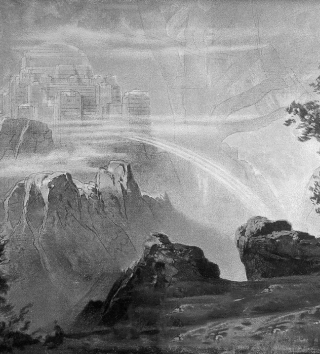
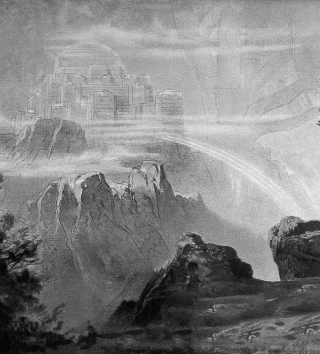
finishing touches on landing page

diff --git a/src/pages/LandingPage.js b/src/pages/LandingPage.js
@@ -8,6 +8,7 @@ import etsyLogo from "../assets/etsy.png"
 import landingImages from "../assets/landingImages.js"
 import search from "../assets/search.png"
 import rightArrow from "../assets/right-arrow.png"
+import rightArrow2 from "../assets/right-arrow-2.png"
 import testimonialOne from "../assets/testimonial-1.jpg"
 
 const LandingPage = (props) => {
@@ -182,7 +183,7 @@ const LandingPage = (props) => {
                 <Link to="/">
                     <div className="link-cont">
                         <h5>Explore gifts</h5>
-                        <img src={rightArrow} alt="right arrow indicating a link to another page" /> 
+                        <img src={rightArrow2} alt="right arrow indicating a link to another page" /> 
                     </div>
                 </Link>
             </div>
@@ -191,9 +192,11 @@ const LandingPage = (props) => {
                     <img src={testimonialOne} alt="generic product" />
                 </div>
                 <div className="testimonial-cont">
-                    <h6>I thought Mother’s Day was next weekend! Thank Odin I found Gifthalla. Mom loves the lavender candle and Poo-Pourri.</h6>
-                    <h6 className="bold">Sam Nusbaum</h6>
-                    <h6>Real Gifthalla User</h6>
+                    <p>I thought Mother’s Day was next weekend! Thank Odin I found Gifthalla. Mom loves the lavender candle and Poo-Pourri.</p>
+                    <div className="testimonial-author">
+                        <p className="bold">Sam Nusbaum</p>
+                        <p>Real Gifthalla User</p>
+                    </div>
                 </div>
             </div>
             <div className="footer-image">

diff --git a/src/App.css b/src/App.css
@@ -169,6 +169,7 @@ div.landing-cont div.subtext-marketplace-cont div.markets-cont {
   display: flex;
   justify-content: space-between;
   align-items: center;
+  mix-blend-mode: luminosity;
 }
 
 div.landing-cont div.search-cont {
@@ -324,11 +325,20 @@ div.landing-cont div.inspiration-banner.third {
   flex-direction: row;
   align-items: center;
   justify-content: center;
-  grid-gap: 0;
+  grid-gap: 16px;
+  height: 270px;
 }
 
 div.landing-cont div.inspiration-banner.third div {
   max-width: 50%;
+  width: 100%;
+}
+
+div.landing-cont div.inspiration-banner.third p {
+  font-size: 12px;
+  line-height: 17.6px;
+  margin: 0;
+  font-weight: normal;
   width: 100%;
 }
 
@@ -348,7 +358,19 @@ div.landing-cont div.inspiration-banner.third div.testimonial-cont {
   align-items: flex-start;
   justify-content: center;
   text-align: left;
-  padding: 0 10px 0 0;
+  padding: 0 5px 0 0;
+  grid-gap: 10px;
+}
+
+div.landing-cont div.inspiration-banner.third div.testimonial-author {
+  display: flex;
+  flex-direction: column;
+  align-items: flex-start;
+  max-width: 100%;
+}
+
+.bold {
+  font-weight: bold;
 }
 
 div.landing-cont div.jumbotron {
@@ -358,6 +380,8 @@ div.landing-cont div.jumbotron {
   display: flex;
   align-items: center;
   background-size: 100% auto;
+  background-color: #404D5B;
+  background-blend-mode: luminosity;
 }
 
 div.landing-cont div.jumbotron div.container {
@@ -390,7 +414,7 @@ div.landing-cont footer {
 div.landing-cont footer p {
   margin: 0;
   color:#FFFFFF;
- 
+  font-size: 12px; 
 }
 
 div.modal-body h2 {
